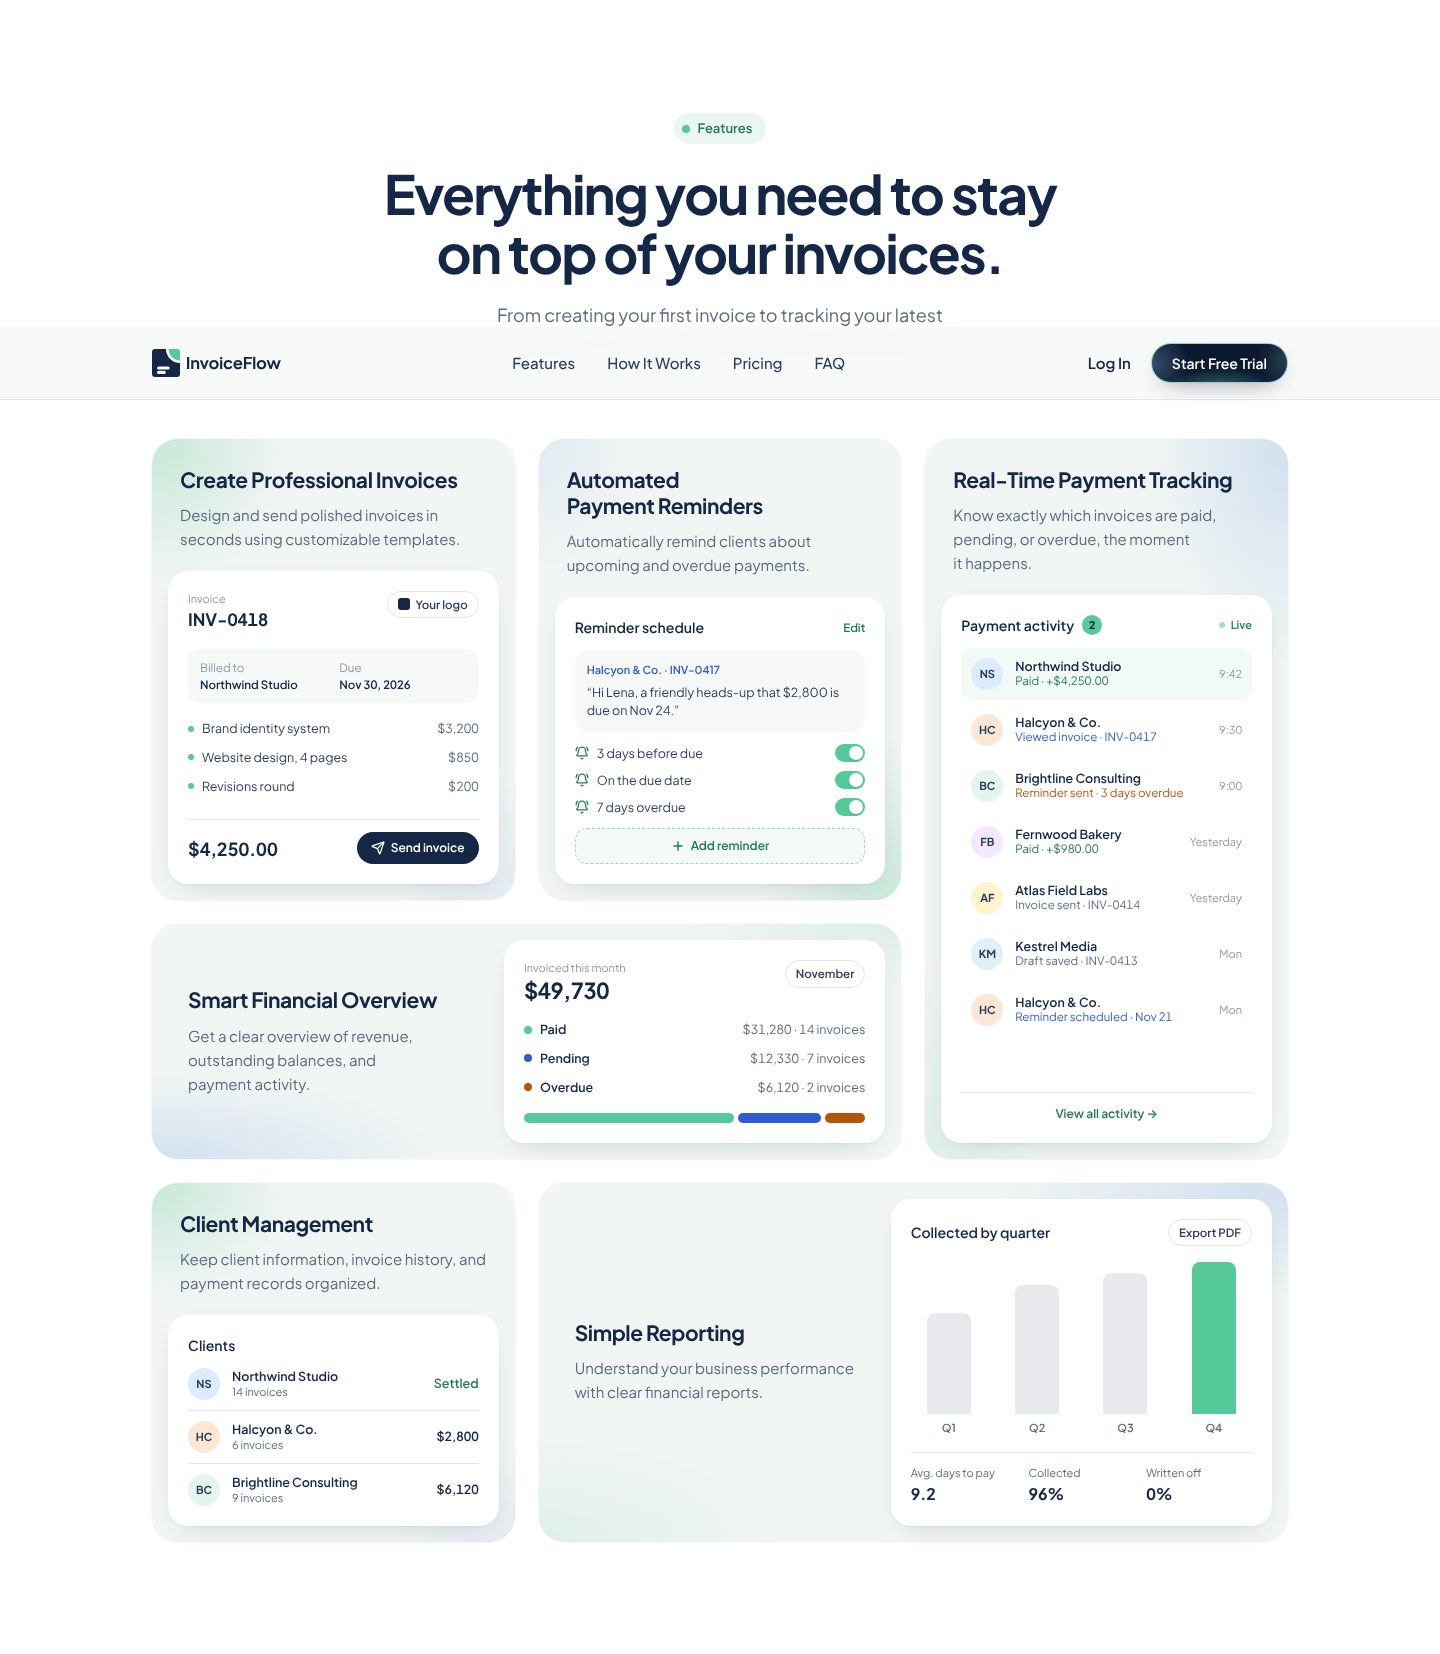
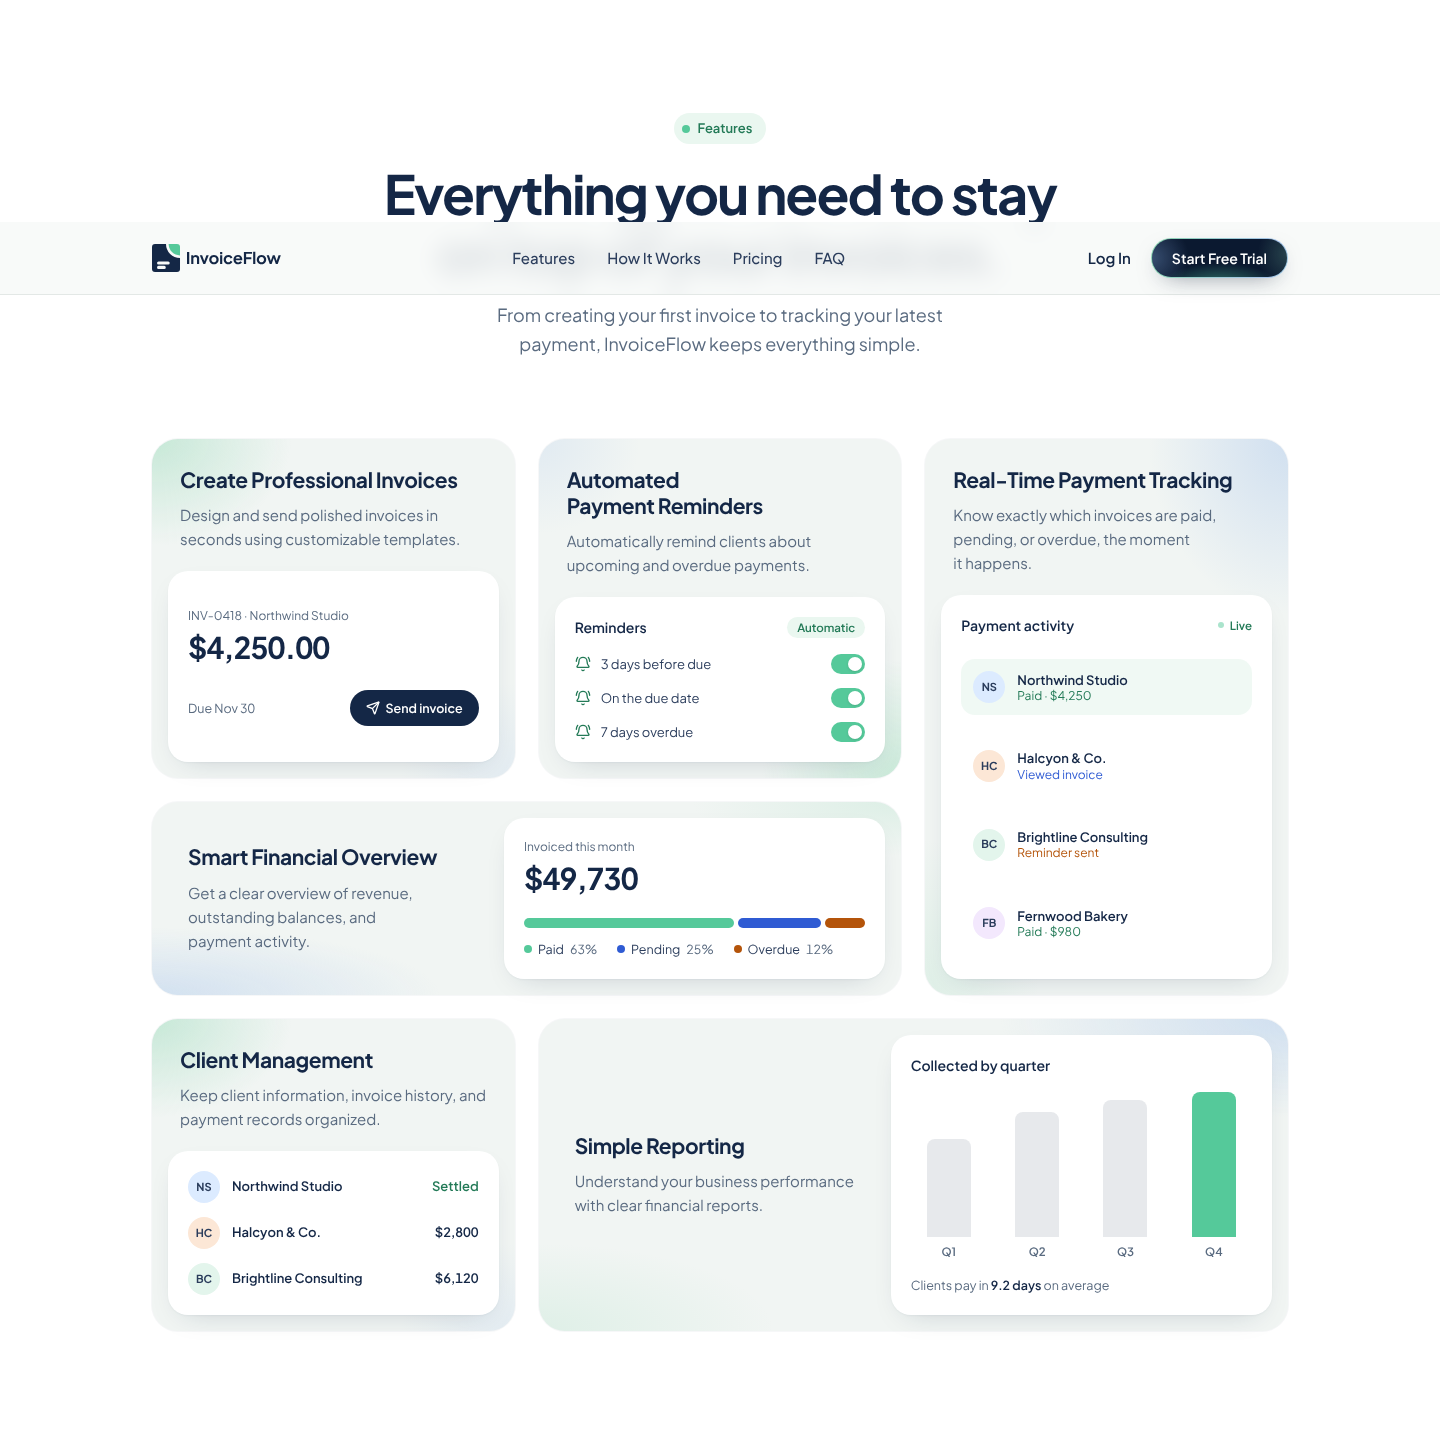
Features: one focal point per card
Each inset panel now makes a single point with one dominant element and
at most four supporting rows: the invoice is its total and a send
action; reminders are three automatic toggles; activity is four events
with status only; the overview is one figure and one status bar; clients
are names and balances; reporting is the quarterly chart and one line on
average days to pay. Line items, message preview, timestamps, invoice
counts, extra stats and secondary buttons are removed.

Claude-Session: https://claude.ai/code/session_01BMwnAZUSDMBHdEEFwNrE9Z

diff --git a/src/sections/Features.tsx b/src/sections/Features.tsx
@@ -1,53 +1,33 @@
-import { BellRing, Plus, Send } from 'lucide-react';
+import { BellRing, Send } from 'lucide-react';
 import { Container } from '../components/ui/Container';
 import { Reveal } from '../components/ui/Reveal';
 import { FeatureCard } from '../components/FeatureTile';
 import { ClientAvatar } from '../components/dashboard/InvoiceTable';
 import { invoices, usd } from '../data/dashboard';
 
-/* ---- Inset panel content, one per feature (sample data, fictional clients) ---- */
+/*
+ * Inset panels. Each one makes a single point with one focal element
+ * (an amount, a chart, a status) and at most four supporting rows, so a
+ * visitor can read the card at a glance. Sample data, fictional clients.
+ */
+
+function PanelHeader({ title, aside }: { title: string; aside?: React.ReactNode }) {
+  return (
+    <div className="mb-4 flex items-center justify-between">
+      <span className="text-[14px] font-semibold text-ink">{title}</span>
+      {aside}
+    </div>
+  );
+}
 
 function InvoicePanel() {
   return (
-    <div className="flex flex-1 flex-col gap-4">
-      <div className="flex items-start justify-between">
-        <div>
-          <p className="text-[11px] text-faint">Invoice</p>
-          <p className="tabular text-[17px] font-bold text-ink">INV-0418</p>
-        </div>
-        <span className="flex items-center gap-1.5 rounded-full border border-line px-2.5 py-1 text-[11.5px] font-semibold text-ink-soft">
-          <span className="size-3 rounded-[3px] bg-ink" />
-          Your logo
-        </span>
-      </div>
-      <dl className="grid grid-cols-2 gap-3 rounded-[12px] bg-paper px-3 py-2.5 text-[11.5px]">
-        <div>
-          <dt className="text-faint">Billed to</dt>
-          <dd className="font-semibold text-ink">Northwind Studio</dd>
-        </div>
-        <div>
-          <dt className="text-faint">Due</dt>
-          <dd className="tabular font-semibold text-ink">Nov 30, 2026</dd>
-        </div>
-      </dl>
-      <ul className="flex flex-col gap-2.5 text-[12.5px]">
-        {[
-          ['Brand identity system', 3200],
-          ['Website design, 4 pages', 850],
-          ['Revisions round', 200],
-        ].map(([l, v]) => (
-          <li key={l as string} className="flex items-center justify-between">
-            <span className="flex items-center gap-2 text-ink-soft">
-              <span className="size-1.5 rounded-full bg-green" />
-              {l}
-            </span>
-            <span className="tabular text-muted">{usd(v as number)}</span>
-          </li>
-        ))}
-      </ul>
-      <div className="mt-auto flex items-center justify-between border-t border-line pt-3">
-        <span className="tabular text-[18px] font-bold text-ink">$4,250.00</span>
-        <span className="flex h-8 items-center gap-1.5 rounded-full bg-ink px-3.5 text-[12px] font-semibold text-white">
+    <div className="flex flex-1 flex-col justify-center">
+      <p className="text-[12px] text-muted">INV-0418 · Northwind Studio</p>
+      <p className="tabular mt-1 text-[30px] leading-tight font-bold tracking-[-0.03em] text-ink">$4,250.00</p>
+      <div className="mt-6 flex items-center justify-between">
+        <span className="tabular text-[12.5px] text-muted">Due Nov 30</span>
+        <span className="flex h-9 items-center gap-1.5 rounded-full bg-ink px-4 text-[12.5px] font-semibold text-white">
           <Send className="size-3.5" strokeWidth={2.25} />
           Send invoice
         </span>
@@ -57,142 +37,104 @@ function InvoicePanel() {
 }
 
 function RemindersPanel() {
-  const items = [
-    { when: '3 days before due', on: true },
-    { when: 'On the due date', on: true },
-    { when: '7 days overdue', on: true },
-  ];
+  const items = ['3 days before due', 'On the due date', '7 days overdue'];
   return (
-    <div className="flex flex-1 flex-col gap-3">
-      <div className="flex items-center justify-between">
-        <span className="text-[14px] font-semibold text-ink">Reminder schedule</span>
-        <span className="text-[11.5px] font-semibold text-green-ink">Edit</span>
-      </div>
-      <div className="rounded-[14px] bg-paper p-3">
-        <p className="text-[11px] font-semibold text-pending">Halcyon &amp; Co. · INV-0417</p>
-        <p className="mt-1 text-[12.5px] leading-[1.5] text-ink-soft">“Hi Lena, a friendly heads-up that $2,800 is due on Nov 24.”</p>
-      </div>
-      <ul className="flex flex-col gap-2">
-        {items.map((it) => (
-          <li key={it.when} className="flex items-center justify-between text-[12.5px]">
-            <span className="flex items-center gap-2 text-ink-soft">
-              <BellRing className="size-3.5 text-green-ink" strokeWidth={2.25} />
-              {it.when}
+    <div className="flex flex-1 flex-col">
+      <PanelHeader title="Reminders" aside={<span className="rounded-full bg-green-wash px-2.5 py-0.5 text-[11.5px] font-semibold text-green-ink">Automatic</span>} />
+      <ul className="flex flex-col gap-3.5">
+        {items.map((when) => (
+          <li key={when} className="flex items-center justify-between text-[13px]">
+            <span className="flex items-center gap-2.5 text-ink-soft">
+              <BellRing className="size-4 text-green-ink" strokeWidth={2} />
+              {when}
             </span>
-            <span className="relative h-[18px] w-[30px] rounded-full bg-green">
-              <span className="absolute top-[2px] left-[14px] size-[14px] rounded-full bg-white shadow-sm" />
+            <span className="relative h-5 w-[34px] rounded-full bg-green">
+              <span className="absolute top-[3px] left-[17px] size-[14px] rounded-full bg-white shadow-sm" />
             </span>
           </li>
         ))}
       </ul>
-      <span className="mt-auto flex h-9 items-center justify-center gap-1.5 rounded-[12px] border border-dashed border-green/60 bg-green-wash/50 text-[12px] font-semibold text-green-ink">
-        <Plus className="size-3.5" strokeWidth={2.5} />
-        Add reminder
-      </span>
     </div>
   );
 }
 
 function ActivityPanel() {
   const feed = [
-    { inv: invoices[0], what: 'Paid', detail: '+$4,250.00', tone: 'text-green-ink', time: '9:42' },
-    { inv: invoices[1], what: 'Viewed invoice', detail: 'INV-0417', tone: 'text-pending', time: '9:30' },
-    { inv: invoices[2], what: 'Reminder sent', detail: '3 days overdue', tone: 'text-overdue', time: '9:00' },
-    { inv: invoices[3], what: 'Paid', detail: '+$980.00', tone: 'text-green-ink', time: 'Yesterday' },
-    { inv: invoices[4], what: 'Invoice sent', detail: 'INV-0414', tone: 'text-muted', time: 'Yesterday' },
-    { inv: invoices[5], what: 'Draft saved', detail: 'INV-0413', tone: 'text-muted', time: 'Mon' },
-    { inv: invoices[1], what: 'Reminder scheduled', detail: 'Nov 21', tone: 'text-pending', time: 'Mon' },
+    { inv: invoices[0], status: 'Paid · $4,250', tone: 'text-green-ink' },
+    { inv: invoices[1], status: 'Viewed invoice', tone: 'text-pending' },
+    { inv: invoices[2], status: 'Reminder sent', tone: 'text-overdue' },
+    { inv: invoices[3], status: 'Paid · $980', tone: 'text-green-ink' },
   ];
   return (
-    <div className="flex flex-1 flex-col gap-3">
-      <div className="flex items-center justify-between">
-        <span className="flex items-center gap-2 text-[14px] font-semibold text-ink">
-          Payment activity
-          <span className="grid size-5 place-items-center rounded-full bg-green text-[10.5px] font-bold text-midnight">2</span>
-        </span>
-        <span className="flex items-center gap-1.5 text-[11px] font-semibold text-green-ink">
-          <span className="size-1.5 animate-pulse rounded-full bg-green" />
-          Live
-        </span>
-      </div>
-      <ul className="flex flex-col gap-1">
+    <div className="flex flex-1 flex-col">
+      <PanelHeader
+        title="Payment activity"
+        aside={
+          <span className="flex items-center gap-1.5 text-[11.5px] font-semibold text-green-ink">
+            <span className="size-1.5 animate-pulse rounded-full bg-green" />
+            Live
+          </span>
+        }
+      />
+      <ul className="flex flex-1 flex-col justify-around gap-2">
         {feed.map((f, i) => (
-          <li key={i} className={`flex items-center gap-3 rounded-[12px] px-2.5 py-2.5 ${i === 0 ? 'bg-green-wash/60' : ''}`}>
+          <li key={i} className={`flex items-center gap-3 rounded-[14px] px-3 py-3 ${i === 0 ? 'bg-green-wash/70' : ''}`}>
             <ClientAvatar invoice={f.inv} size="md" />
-            <span className="min-w-0 flex-1 leading-tight">
-              <span className="block truncate text-[12.5px] font-semibold text-ink">{f.inv.client}</span>
-              <span className={`block truncate text-[11.5px] ${f.tone}`}>
-                {f.what} · <span className="tabular">{f.detail}</span>
-              </span>
+            <span className="min-w-0 leading-tight">
+              <span className="block truncate text-[13px] font-semibold text-ink">{f.inv.client}</span>
+              <span className={`block text-[12px] ${f.tone}`}>{f.status}</span>
             </span>
-            <span className="tabular shrink-0 text-[11px] text-faint">{f.time}</span>
           </li>
         ))}
       </ul>
-      <span className="mt-auto border-t border-line pt-3 text-center text-[12px] font-semibold text-green-ink">View all activity →</span>
     </div>
   );
 }
 
 function OverviewPanel() {
   const parts = [
-    { label: 'Paid', amount: 31280, n: 14, pct: 63, color: 'bg-green', dot: 'bg-green' },
-    { label: 'Pending', amount: 12330, n: 7, pct: 25, color: 'bg-pending', dot: 'bg-pending' },
-    { label: 'Overdue', amount: 6120, n: 2, pct: 12, color: 'bg-overdue', dot: 'bg-overdue' },
+    { label: 'Paid', pct: 63, color: 'bg-green' },
+    { label: 'Pending', pct: 25, color: 'bg-pending' },
+    { label: 'Overdue', pct: 12, color: 'bg-overdue' },
   ];
   return (
-    <div className="flex flex-1 flex-col gap-4">
-      <div className="flex items-start justify-between">
-        <div>
-          <p className="text-[11px] text-faint">Invoiced this month</p>
-          <p className="tabular text-[22px] leading-tight font-bold tracking-[-0.02em] text-ink">$49,730</p>
-        </div>
-        <span className="rounded-full border border-line px-2.5 py-1 text-[11.5px] font-semibold text-ink-soft">November</span>
-      </div>
-      <ul className="flex flex-col gap-2.5 text-[12.5px]">
-        {parts.map((p) => (
-          <li key={p.label} className="flex items-center justify-between">
-            <span className="flex items-center gap-2 font-semibold text-ink">
-              <span className={`size-2 rounded-full ${p.dot}`} />
-              {p.label}
-            </span>
-            <span className="tabular text-muted">
-              {usd(p.amount)} · {p.n} invoices
-            </span>
-          </li>
-        ))}
-      </ul>
-      <div className="mt-auto flex h-2.5 gap-1">
+    <div className="flex flex-1 flex-col justify-center">
+      <p className="text-[12px] text-muted">Invoiced this month</p>
+      <p className="tabular mt-1 text-[30px] leading-tight font-bold tracking-[-0.03em] text-ink">$49,730</p>
+      <div className="mt-5 flex h-2.5 gap-1">
         {parts.map((p) => (
           <span key={p.label} className={`${p.color} rounded-full`} style={{ width: `${p.pct}%` }} />
         ))}
       </div>
+      <ul className="mt-3 flex flex-wrap gap-x-5 gap-y-1.5 text-[12.5px]">
+        {parts.map((p) => (
+          <li key={p.label} className="flex items-center gap-1.5 text-ink-soft">
+            <span className={`size-2 rounded-full ${p.color}`} />
+            {p.label}
+            <span className="tabular text-muted">{p.pct}%</span>
+          </li>
+        ))}
+      </ul>
     </div>
   );
 }
 
 function ClientsPanel() {
   const rows = [
-    { inv: invoices[0], count: 14, balance: 0 },
-    { inv: invoices[1], count: 6, balance: 2800 },
-    { inv: invoices[2], count: 9, balance: 6120 },
+    { inv: invoices[0], balance: 0 },
+    { inv: invoices[1], balance: 2800 },
+    { inv: invoices[2], balance: 6120 },
   ];
   return (
-    <div className="flex flex-col gap-3">
-      <span className="text-[14px] font-semibold text-ink">Clients</span>
-      <ul className="flex flex-col divide-y divide-line">
-        {rows.map((r) => (
-          <li key={r.inv.id} className="flex items-center gap-3 py-2.5 text-[12.5px] first:pt-0 last:pb-0">
-            <ClientAvatar invoice={r.inv} size="md" />
-            <span className="min-w-0 flex-1 leading-tight">
-              <span className="block truncate font-semibold text-ink">{r.inv.client}</span>
-              <span className="block text-[11px] text-muted">{r.count} invoices</span>
-            </span>
-            <span className={`tabular font-semibold ${r.balance ? 'text-ink' : 'text-green-ink'}`}>{r.balance ? usd(r.balance) : 'Settled'}</span>
-          </li>
-        ))}
-      </ul>
-    </div>
+    <ul className="flex flex-1 flex-col justify-center gap-3.5">
+      {rows.map((r) => (
+        <li key={r.inv.id} className="flex items-center gap-3 text-[13px]">
+          <ClientAvatar invoice={r.inv} size="md" />
+          <span className="min-w-0 flex-1 truncate font-semibold text-ink">{r.inv.client}</span>
+          <span className={`tabular font-semibold ${r.balance ? 'text-ink' : 'text-green-ink'}`}>{r.balance ? usd(r.balance) : 'Settled'}</span>
+        </li>
+      ))}
+    </ul>
   );
 }
 
@@ -204,31 +146,19 @@ function ReportPanel() {
     { label: 'Q4', v: 92 },
   ];
   return (
-    <div className="flex flex-1 flex-col gap-4">
-      <div className="flex items-center justify-between">
-        <span className="text-[14px] font-semibold text-ink">Collected by quarter</span>
-        <span className="rounded-full border border-line px-2.5 py-1 text-[11.5px] font-semibold text-ink-soft">Export PDF</span>
-      </div>
+    <div className="flex flex-1 flex-col">
+      <PanelHeader title="Collected by quarter" />
       <div className="flex min-h-28 flex-1 items-end gap-3">
         {q.map((x, i) => (
           <div key={x.label} className="flex h-full flex-1 flex-col items-center justify-end gap-1.5">
             <span className={`w-full max-w-11 rounded-t-[8px] ${i === q.length - 1 ? 'bg-green' : 'bg-ink/10'}`} style={{ height: `${x.v}%` }} />
-            <span className="text-[11px] font-semibold text-muted">{x.label}</span>
+            <span className="text-[11.5px] font-semibold text-muted">{x.label}</span>
           </div>
         ))}
       </div>
-      <dl className="grid grid-cols-3 gap-3 border-t border-line pt-3 text-[11px]">
-        {[
-          ['Avg. days to pay', '9.2'],
-          ['Collected', '96%'],
-          ['Written off', '0%'],
-        ].map(([k, v]) => (
-          <div key={k}>
-            <dt className="text-muted">{k}</dt>
-            <dd className="tabular text-[16px] font-bold text-ink">{v}</dd>
-          </div>
-        ))}
-      </dl>
+      <p className="mt-4 text-[12.5px] text-muted">
+        Clients pay in <span className="tabular font-semibold text-ink">9.2 days</span> on average
+      </p>
     </div>
   );
 }
